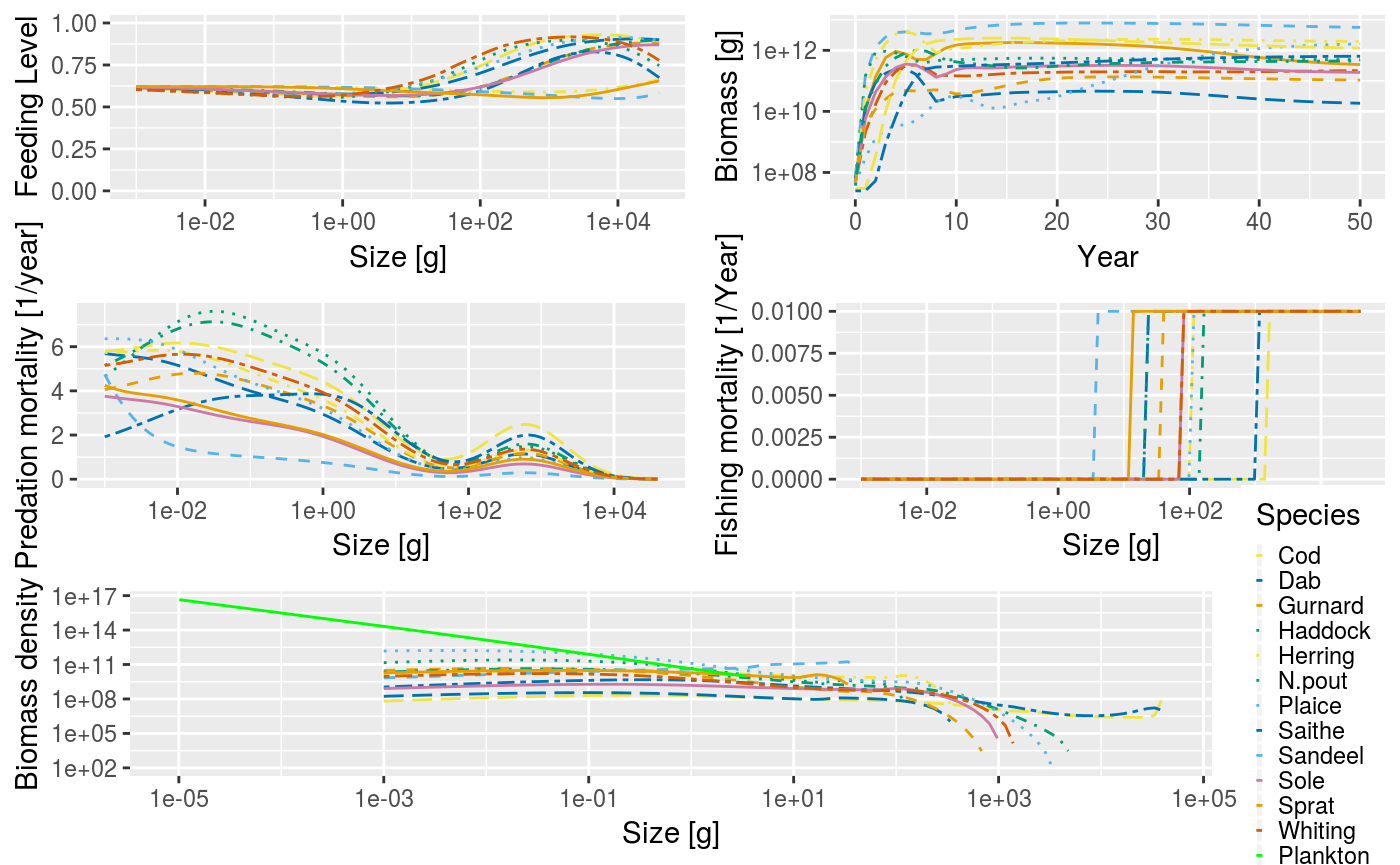
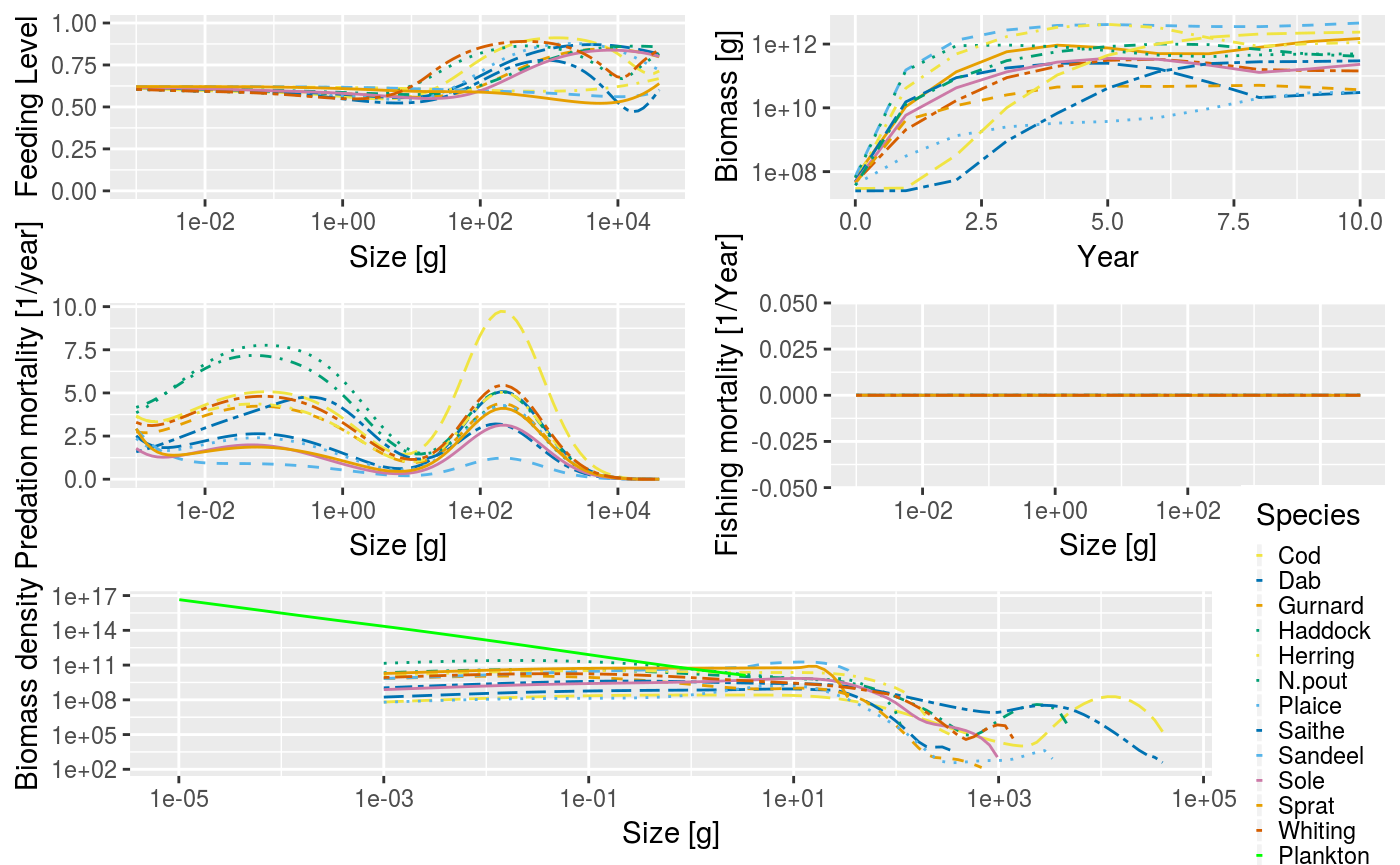
Some tweaking of docs

diff --git a/docs/articles/mizer.html b/docs/articles/mizer.html
@@ -98,7 +98,7 @@
 <div id="overview" class="section level2">
 <h2 class="hasAnchor">
 <a href="#overview" class="anchor"></a>Overview</h2>
-<p>The mizer package implements multi-species size-based modelling in R. It has been designed for modelling marine ecosystems. The general model is described in the section <a href="#model-description">Model Description</a>.</p>
+<p>The mizer package implements multi-species size-spectrum models in R. It has been designed for modelling marine ecosystems. The general model is described in the section [Size spectrum models].</p>
 <p>Using mizer is relatively simple. There are four main stages, each described in more detail in sections below.</p>
 <ol style="list-style-type: decimal">
 <li><p><a href="#installing-mizer">Installing mizer</a>.</p></li>
@@ -107,11 +107,6 @@
 <li><p><a href="#exploring-the-results">Exploring the results</a>.</p></li>
 </ol>
 <p>There is a <a href="https://www.youtube.com/watch?v=zh0PDyTUssw&amp;list=PLCTMeyjMKRkqR7uohI3p-61P7ZJj8sd5B">series of YouTube videos</a> explaining how to use and install mizer.</p>
-</div>
-<div id="model-description" class="section level2">
-<h2 class="hasAnchor">
-<a href="#model-description" class="anchor"></a>Model Description</h2>
-<p>To be written.</p>
 </div>
 <div id="installing-mizer" class="section level2">
 <h2 class="hasAnchor">
@@ -138,14 +133,14 @@
 <pre><code>## Note: No gamma provided for some species, so using f0, h, beta, sigma, lambda and kappa to calculate it.</code></pre>
 <pre><code>## Note: Using z0 = z0pre * w_inf ^ z0exp for missing z0 values.</code></pre>
 <pre><code>## Note: No ks column in species data frame so using ks = h * 0.2.</code></pre>
-<p>The notes printed out by the function show us that mizer calculated sensible default values for parameters that were not provided.</p>
+<p>The notes printed out by the function show us that mizer calculated default values for parameters that were not provided.</p>
 </div>
 <div id="running-a-simulation" class="section level2">
 <h2 class="hasAnchor">
 <a href="#running-a-simulation" class="anchor"></a>Running a simulation</h2>
 <p>This is done by calling the <code><a href="../reference/project.html">project()</a></code> method on the model parameters.</p>
-<div class="sourceCode" id="cb11"><pre class="sourceCode r"><code class="sourceCode r"><a class="sourceLine" id="cb11-1" data-line-number="1">sim &lt;-<span class="st"> </span><span class="kw"><a href="../reference/project.html">project</a></span>(params, <span class="dt">t_max =</span> <span class="dv">50</span>, <span class="dt">effort =</span> <span class="fl">0.01</span>)</a></code></pre></div>
-<p>This produces an object of MizerSim} which contains the results of the simulation. In this example we chose to set some parameters of the <code><a href="../reference/project.html">project()</a></code> function to specify that we want to project 50 years into the future, under the assumption of zero fishing effort. You can see the help page for <code><a href="../reference/project.html">project()</a></code> for more details and it is described fully in <a href="running_a_simulation.html">the section on running a simulation.</a></p>
+<div class="sourceCode" id="cb11"><pre class="sourceCode r"><code class="sourceCode r"><a class="sourceLine" id="cb11-1" data-line-number="1">sim &lt;-<span class="st"> </span><span class="kw"><a href="../reference/project.html">project</a></span>(params, <span class="dt">t_max =</span> <span class="dv">10</span>, <span class="dt">effort =</span> <span class="dv">0</span>)</a></code></pre></div>
+<p>This produces an object of MizerSim} which contains the results of the simulation. In this example we chose to set some parameters of the <code><a href="../reference/project.html">project()</a></code> function to specify that we want to project 10 years into the future, under the assumption of zero fishing effort. You can see the help page for <code><a href="../reference/project.html">project()</a></code> for more details and it is described fully in <a href="running_a_simulation.html">the section on running a simulation.</a></p>
 </div>
 <div id="exploring-the-results" class="section level2">
 <h2 class="hasAnchor">
@@ -155,34 +150,32 @@
 <p><img src="mizer_files/figure-html/unnamed-chunk-6-1.png" width="700"> We might be interested in how the proportion of large fish varies over time. For example we can get the proportion of Herrings in terms of biomass that have a weight above 50g in each of the 50 years:</p>
 <div class="sourceCode" id="cb13"><pre class="sourceCode r"><code class="sourceCode r"><a class="sourceLine" id="cb13-1" data-line-number="1"><span class="kw"><a href="../reference/getProportionOfLargeFish.html">getProportionOfLargeFish</a></span>(sim, <span class="dt">species =</span> <span class="st">"Herring"</span>, <span class="dt">threshold_w =</span> <span class="dv">50</span>, <span class="dt">biomass_proportion =</span> <span class="ot">TRUE</span>)</a></code></pre></div>
 <pre><code>##          0          1          2          3          4          5 
-## 0.82418075 0.04391915 0.29376989 0.51267928 0.73386660 0.88609714 
-##          6          7          8          9         10         11 
-## 0.90022861 0.73370620 0.19006780 0.08756500 0.15857723 0.20033607 
-##         12         13         14         15         16         17 
-## 0.22911606 0.26890047 0.30463756 0.33878410 0.37311180 0.40450866 
-##         18         19         20         21         22         23 
-## 0.43233455 0.45756007 0.48064353 0.50197636 0.52199858 0.54066431 
-##         24         25         26         27         28         29 
-## 0.55764218 0.57286968 0.58661980 0.59926175 0.61109511 0.62225349 
-##         30         31         32         33         34         35 
-## 0.63268264 0.64227323 0.65103049 0.65909192 0.66659961 0.67357684 
-##         36         37         38         39         40         41 
-## 0.67994548 0.68567458 0.69085830 0.69560423 0.69991118 0.70370492 
-##         42         43         44         45         46         47 
-## 0.70696797 0.70981939 0.71243102 0.71484989 0.71695998 0.71862496 
-##         48         49         50 
-## 0.71982509 0.72066421 0.72127138</code></pre>
+## 0.82418075 0.04388892 0.29419134 0.51446384 0.73563622 0.88702688 
+##          6          7          8          9         10 
+## 0.90102213 0.73335861 0.18177264 0.08275899 0.15035014</code></pre>
 <p>We can then use the full power of R to work with these results.</p>
 <p>The functionality provided by mizer to explore the simulation results is more fully described in <a href="exploring_the_simulation_results.html">the section on exploring the simulation results.</a></p>
 </div>
-<div id="examples" class="section level2">
+<div id="size-spectrum-models" class="section level2">
 <h2 class="hasAnchor">
-<a href="#examples" class="anchor"></a>Examples</h2>
-<p>It is easiest to learn the basics of mizer through examples. We do this by looking at four set-ups of the framework, of increasing complexity. For each one there is a vignette that describes how to set up the model, run it in different scenarios, and explore the results. We recommend that you explore these in the following order:</p>
+<a href="#size-spectrum-models" class="anchor"></a>Size-spectrum models</h2>
+<p>Size spectrum models have emerged as a conceptually simple way to model a large community of individuals which grow and change trophic level during life. There is now a growing literature describing different types of size spectrum models <span class="citation">(e.g. Benoît and Rochet <a href="#ref-benoit_continuous_2004">2004</a>; Andersen and Beyer <a href="#ref-andersen_asymptotic_2006">2006</a>; Andersen et al. <a href="#ref-andersen_life-history_2008">2008</a>; Law et al. <a href="#ref-law_size-spectra_2009">2009</a>; Hartvig <a href="#ref-hartvig_food_2011">2011</a>; Hartvig, Andersen, and Beyer <a href="#ref-hartvig_food_2011-1">2011</a>)</span>. The models can be used to understand how marine communities are organised <span class="citation">(Andersen and Beyer <a href="#ref-andersen_asymptotic_2006">2006</a>; Andersen, Beyer, and Lundberg <a href="#ref-andersen_trophic_2009">2009</a>; Blanchard et al. <a href="#ref-blanchard_how_2009">2009</a>)</span> and how they respond to fishing <span class="citation">(K. H. Andersen and Rice <a href="#ref-andersen_direct_2010">2010</a>; K. H. Andersen and Pedersen <a href="#ref-andersen_damped_2010">2010</a>)</span>. This section introduces the central assumptions, concepts, processes, equations and parameters of size spectrum models.</p>
+<p>Roughly speaking there are three versions of the size spectrum modelling framework of increasing complexity: The <a href="#community-model">community model</a> <span class="citation">(Benoît and Rochet <a href="#ref-benoit_continuous_2004">2004</a>; Maury et al. <a href="#ref-maury_modeling_2007">2007</a>; Blanchard et al. <a href="#ref-blanchard_how_2009">2009</a>; Law et al. <a href="#ref-law_size-spectra_2009">2009</a>)</span>, the <a href="#trait-based-model">trait-based model</a> <span class="citation">(Andersen and Beyer <a href="#ref-andersen_asymptotic_2006">2006</a>; K. H. Andersen and Pedersen <a href="#ref-andersen_damped_2010">2010</a>)</span>, and the <a href="#multispecies-model">multispecies model</a> <span class="citation">(Hartvig, Andersen, and Beyer <a href="#ref-hartvig_food_2011-1">2011</a>)</span>. The community and trait-based models can be considered as simplifications of the multispecies model. This section focuses on the multispecies model but is also applicable to the community and trait-based models. Mizer is able to implement all three types of model using similar commands.</p>
+<p>Size spectrum models are a subset of physiologically structured models <span class="citation">(Metz and Diekmann <a href="#ref-metz_dynamics_1986">1986</a>; De Roos and Persson <a href="#ref-de_roos_physiologically_2001">2001</a>)</span> as growth (and thus maturation) is food dependent, and processes are formulated in terms of individual level processes. All parameters in the size spectrum models are related to individual weight which makes it possible to formulate the model with a small set of general parameters, which has prompted the label ``charmingly simple’’ to the model framework [<span class="citation">Pope et al. (<a href="#ref-pope_modelling_2006">2006</a>)</span>}.</p>
+<p>The model framework builds on two central assumption and a number of lesser standard assumption.</p>
+<p>The first central assumption is that an individual can be characterized by its weight <span class="math inline">\(w\)</span> and its species number <span class="math inline">\(i\)</span> only. The aim of the model is to calculate the size- and trait-spectrum <span class="math inline">\({\cal N}_i(w)\)</span> which is the density of individuals such that <span class="math inline">\({\cal N}_i(w)dw\)</span> is the number of individuals in the interval <span class="math inline">\([w:w+dw]\)</span>. Scaling from individual-level processes of growth and mortality to the size spectrum of each trait group is achieved by means of the McKendrik-von Foerster equation, which is simply a continuity equation that describes the flow of biomass up the size spectrum, <span class="math display">\[\begin{equation}
+  \frac{\partial N_i(w)}{\partial t} + \frac{\partial g_i(w) N_i(w)}{\partial w} = -\mu_i(w) N_i(w)
+\end{equation}\]</span> where individual growth <span class="math inline">\(g_i(w)\)</span> and mortality <span class="math inline">\(\mu_i(w)\)</span> are coupled, because growth of one individual is due to predation on another, who consequenty dies.</p>
+<p>The continuity equation is supplemented by a boundary condition at the egg weight <span class="math inline">\(w_0\)</span> where the flux of individuals (numbers per time) <span class="math inline">\(g_i(w_0) N_i(w_0)\)</span> is determined by the reproduction of offspring by mature individuals in the population <span class="math inline">\(R_i\)</span>: <span class="math display">\[\begin{equation}
+  g_i(w_0)N_i(w_0) = R_i.
+\end{equation}\]</span></p>
+<p>The second central assumption is that the rate at which a predator feeds on a prey is determined by the sizes and abundances</p>
+<p>The rest of the formulation of the model rests on a number of ``standard’’ assumptions from ecology and fisheries science about how encounters between predators and prey leads to growth <span class="math inline">\(g_i(w)\)</span> and recruitment <span class="math inline">\(R_i\)</span> of the predators, and mortality of the prey <span class="math inline">\(\mu_i(w)\)</span>.</p>
+<p>It is easiest to learn the basics of mizer through examples. We do this by looking at three set-ups of the framework, of increasing complexity. For each one there is a vignette that describes how to set up the model, run it in different scenarios, and explore the results. We recommend that you explore these in the following order:</p>
 <div id="community-model" class="section level3">
 <h3 class="hasAnchor">
 <a href="#community-model" class="anchor"></a>Community model</h3>
-<p>In the <a href="community_model.html">community model</a>, individuals are only characterized by their size and are represented by a single group representing an across species average. Community size spectrum models have been used to investigate how abundance size spectra emerge solely from individual-level process of size-based predation and how fishing impacts metrics of community-level size spectra. Since few parameters are required it has been used for investigating large-scale community-level questions where detailed trait- and species-level parameterisations are not tractable.</p>
+<p>In the <a href="community_model.html">community model</a>, individuals are only characterized by their size and are represented by a single group representing an across species average. Community size spectrum models have been used to investigate how abundance size spectra emerge solely from the individual-level process of size-based predation and how fishing impacts metrics of community-level size spectra. Since few parameters are required it has been used for investigating large-scale community-level questions where detailed trait- and species-level parameterisations are not tractable.</p>
 </div>
 <div id="trait-based-model" class="section level3">
 <h3 class="hasAnchor">
@@ -206,7 +199,7 @@ stock-recruitment relationship.
 <div id="which-model-to-use" class="section level3">
 <h3 class="hasAnchor">
 <a href="#which-model-to-use" class="anchor"></a>Which model to use</h3>
-<p>All four models predict abundance, biomass and yield as well as predation and mortality rates at size. They are useful for establishing baselines of abundance of unexploited communities, for understanding how fishing impacts aquatic communities and for testing indicators that are being developed to support an ecosystem approach to fisheries management.</p>
+<p>All three models predict abundance, biomass and yield as well as predation and mortality rates at size. They are useful for establishing baselines of abundance of unexploited communities, for understanding how fishing impacts aquatic communities and for testing indicators that are being developed to support an ecosystem approach to fisheries management.</p>
 <p>Which model to use in a specific case depends on needs and on the amount of information available to calibrate the model. The multi-species model could be set up for most systems where calibration parameters can be estimated. This requires a lot of insight and data. If the parameters are just guesstimates the results of the multi-species model will be no more accurate than the results from the trait-based model. In such situations we therefore recommend the use of the trait-based model, even though it only provides general information about the asymptotic size distribution and not about specific species.</p>
 <p>The community model is useful for large-scale community-level questions where only the average spectrum is needed. Care should be taken when the community model is used to infer the dynamical properties of marine ecosystems, since it is prone to unrealistically strong oscillations due to the lack of dampening effects provided by the life-history diversity in the trait-based and multi-species models.</p>
 </div>
@@ -216,6 +209,54 @@ stock-recruitment relationship.
 <a href="#online-apps" class="anchor"></a>Online apps</h2>
 <p>Perhaps the easiest way for newcomers to get into using mizer is via online apps. We are in the process to develop a variety of apps for setting up and exploring models. Here is an example of an online app to <a href="https://mizer.shinyapps.io/selectivity/">explore the effect of increased gear selectivity</a>.</p>
 </div>
+<div id="references" class="section level2 unnumbered">
+<h2 class="hasAnchor">
+<a href="#references" class="anchor"></a>References</h2>
+<div id="refs" class="references">
+<div id="ref-andersen_asymptotic_2006">
+<p>Andersen, K. H., and J. E. Beyer. 2006. “Asymptotic Size Determines Species Abundance in the Marine Size Spectrum.” <em>The American Naturalist</em> 168 (1): 54–61. <a href="https://doi.org/10.1086/504849">https://doi.org/10.1086/504849</a>.</p>
+</div>
+<div id="ref-andersen_trophic_2009">
+<p>Andersen, K. H., J. E. Beyer, and P. Lundberg. 2009. “Trophic and Individual Efficiencies of Size-Structured Communities.” <em>Proceedings of the Royal Society B: Biological Sciences</em> 276 (1654): 109–14. <a href="https://doi.org/10.1098/rspb.2008.0951">https://doi.org/10.1098/rspb.2008.0951</a>.</p>
+</div>
+<div id="ref-andersen_life-history_2008">
+<p>Andersen, K.H., J.E. Beyer, M. Pedersen, N.G. Andersen, and H. Gislason. 2008. “Life-History Constraints on the Success of the Many Small Eggs Reproductive Strategy.” <em>Theoretical Population Biology</em> 73 (4): 490–97. <a href="https://doi.org/10.1016/j.tpb.2008.02.001">https://doi.org/10.1016/j.tpb.2008.02.001</a>.</p>
+</div>
+<div id="ref-andersen_damped_2010">
+<p>Andersen, K. H., and M. Pedersen. 2010. “Damped Trophic Cascades Driven by Fishing in Model Marine Ecosystems.” <em>Proceedings of the Royal Society B-Biological Sciences</em> 277 (1682): 795–802. <a href="https://doi.org/10.1098/rspb.2009.1512">https://doi.org/10.1098/rspb.2009.1512</a>.</p>
+</div>
+<div id="ref-andersen_direct_2010">
+<p>Andersen, K. H., and Jake C. Rice. 2010. “Direct and Indirect Community Effects of Rebuilding Plans.” <em>ICES Journal of Marine Science: Journal Du Conseil</em> 67 (9): 1980–8. <a href="https://doi.org/10.1093/icesjms/fsq035">https://doi.org/10.1093/icesjms/fsq035</a>.</p>
+</div>
+<div id="ref-benoit_continuous_2004">
+<p>Benoît, Eric, and Marie-Joëlle Rochet. 2004. “A Continuous Model of Biomass Size Spectra Governed by Predation and the Effects of Fishing on Them.” <em>Journal of Theoretical Biology</em> 226 (1): 9–21. <a href="https://doi.org/10.1016/S0022-5193(03)00290-X">https://doi.org/10.1016/S0022-5193(03)00290-X</a>.</p>
+</div>
+<div id="ref-blanchard_how_2009">
+<p>Blanchard, Julia L., Simon Jennings, Richard Law, Matthew D. Castle, Paul McCloghrie, Marie-Joëlle Rochet, and Eric Benoît. 2009. “How Does Abundance Scale with Body Size in Coupled Size-Structured Food Webs?” <em>Journal of Animal Ecology</em> 78 (1): 270–80. <a href="https://doi.org/10.1111/j.1365-2656.2008.01466.x">https://doi.org/10.1111/j.1365-2656.2008.01466.x</a>.</p>
+</div>
+<div id="ref-de_roos_physiologically_2001">
+<p>De Roos, André M., and Lennart Persson. 2001. “Physiologically Structured Models – from Versatile Technique to Ecological Theory.” <em>Oikos</em> 94 (1): 51–71. <a href="https://doi.org/10.1034/j.1600-0706.2001.11313.x">https://doi.org/10.1034/j.1600-0706.2001.11313.x</a>.</p>
+</div>
+<div id="ref-hartvig_food_2011">
+<p>Hartvig, Martin. 2011. “Food Web Ecology.” Ph.D., Lund University.</p>
+</div>
+<div id="ref-hartvig_food_2011-1">
+<p>Hartvig, Martin, K. H. Andersen, and Jan E. Beyer. 2011. “Food Web Framework for Size-Structured Populations RID c-4303-2011.” <em>Journal of Theoretical Biology</em> 272 (1): 113–22. <a href="https://doi.org/10.1016/j.jtbi.2010.12.006">https://doi.org/10.1016/j.jtbi.2010.12.006</a>.</p>
+</div>
+<div id="ref-law_size-spectra_2009">
+<p>Law, Richard, Michael J. Plank, Alex James, and Julia L. Blanchard. 2009. “Size-Spectra Dynamics from Stochastic Predation and Growth of Individuals.” <em>Ecology</em> 90 (3): 802–11. <a href="https://doi.org/10.1890/07-1900.1">https://doi.org/10.1890/07-1900.1</a>.</p>
+</div>
+<div id="ref-maury_modeling_2007">
+<p>Maury, Olivier, Blaise Faugeras, Yunne-Jai Shin, Jean-Christophe Poggiale, Tamara Ben Ari, and Francis Marsac. 2007. “Modeling Environmental Effects on the Size-Structured Energy Flow Through Marine Ecosystems. Part 1: The Model.” <em>Progress in Oceanography</em> 74 (4): 479–99. <a href="https://doi.org/10.1016/j.pocean.2007.05.002">https://doi.org/10.1016/j.pocean.2007.05.002</a>.</p>
+</div>
+<div id="ref-metz_dynamics_1986">
+<p>Metz, Johan A. J., and O. Diekmann. 1986. <em>The Dynamics of Physiologically Structured Populations</em>. Springer-Verlag.</p>
+</div>
+<div id="ref-pope_modelling_2006">
+<p>Pope, John G., Jake C. Rice, Niels Daan, Simon Jennings, and Henrik Gislason. 2006. “Modelling an Exploited Marine Fish Community with 15 Parameters - Results from a Simple Size-Based Model.” <em>Ices Journal of Marine Science</em> 63 (6): 1029–44. <a href="https://doi.org/10.1016/j.icesjms.2006.04.015">https://doi.org/10.1016/j.icesjms.2006.04.015</a>.</p>
+</div>
+</div>
+</div>
   </div>
 
   <div class="col-md-3 hidden-xs hidden-sm" id="sidebar">
@@ -224,13 +265,12 @@ stock-recruitment relationship.
 <a href="#tocnav" class="anchor"></a>Contents</h2>
       <ul class="nav nav-pills nav-stacked">
 <li><a href="#overview">Overview</a></li>
-      <li><a href="#model-description">Model Description</a></li>
       <li><a href="#installing-mizer">Installing mizer</a></li>
       <li><a href="#setting-the-model-parameters">Setting the model parameters</a></li>
       <li><a href="#running-a-simulation">Running a simulation</a></li>
       <li><a href="#exploring-the-results">Exploring the results</a></li>
       <li>
-<a href="#examples">Examples</a><ul class="nav nav-pills nav-stacked">
+<a href="#size-spectrum-models">Size-spectrum models</a><ul class="nav nav-pills nav-stacked">
 <li><a href="#community-model">Community model</a></li>
       <li><a href="#trait-based-model">Trait-based model</a></li>
       <li><a href="#multispecies-model">Multispecies model</a></li>
@@ -238,6 +278,7 @@ stock-recruitment relationship.
       </ul>
 </li>
       <li><a href="#online-apps">Online apps</a></li>
+      <li><a href="#references">References</a></li>
       </ul>
 </div>
       </div>

diff --git a/docs/articles/trait_model.html b/docs/articles/trait_model.html
@@ -98,15 +98,15 @@
 <div id="introduction" class="section level2">
 <h2 class="hasAnchor">
 <a href="#introduction" class="anchor"></a>Introduction</h2>
-<p>The trait-based size spectrum model can be derived as a simplification of the general model outline in <a href="model_description.html">the model description section.</a> It is more complicated than a community model and the most significant difference between the two is that while the community model only resolves a single <em>species</em>, the trait-based model resolves many species. In a trait-based model the asymptotic size is considered to be the most important <em>trait</em> characterizing a species. All of the species-specific parameters, such as <span class="math inline">\(\beta\)</span> and <span class="math inline">\(\sigma\)</span>, are the same for all species. Other model parameters are determined by the asymptotic size. For example, the weight at maturation, <span class="math inline">\(w_{m.i} = \eta w_{\infty.i}\)</span>, where <span class="math inline">\(\eta = 0.25\)</span>. The number of species is not important and does not affect the general dynamics of the model. The asymptotic sizes of the species are spread evenly over the size range of the community.</p>
+<p>The trait-based size spectrum model can be derived as a simplification of the general model outline in the <a href="model_description.html">model description</a> section. It is more complicated than a <a href="community_model.html">community model</a> and the most significant difference between the two is that while the community model only resolves a single <em>species</em>, the trait-based model resolves many species. In a trait-based model the asymptotic size is considered to be the most important <em>trait</em> characterizing a species. All of the species-specific parameters, such as <span class="math inline">\(\beta\)</span> and <span class="math inline">\(\sigma\)</span>, are the same for all species. Other model parameters are determined by the asymptotic size. For example, the weight at maturation, <span class="math inline">\(w_{m.i} = \eta w_{\infty.i}\)</span>, where <span class="math inline">\(\eta = 0.25\)</span>. The number of species is not important and does not affect the general dynamics of the model. The asymptotic sizes of the species are spread evenly over the size range of the community.</p>
 </div>
 <div id="sec:set_up_trait_model" class="section level2">
 <h2 class="hasAnchor">
 <a href="#sec:set_up_trait_model" class="anchor"></a>Setting up a trait-based model</h2>
-<p>To help set up a trait-based model, there is a wrapper function, <code><a href="../reference/set_trait_model.html">set_trait_model()</a></code>. Like the <code><a href="../reference/set_community_model.html">set_community_model()</a></code> function described above, this function can take many arguments. Most of them have default values so you don’t need to worry about them for the moment. See the help page for more details.</p>
+<p>To help set up a trait-based model, there is a wrapper function, <code><a href="../reference/set_trait_model.html">set_trait_model()</a></code>. Like the <code><a href="../reference/set_community_model.html">set_community_model()</a></code> function described in the section on the <a href="community_model.html">community model</a>, this function can take many arguments. Most of them have default values so you don’t need to worry about them for the moment. See the help page for more details.</p>
 <div class="sourceCode" id="cb1"><pre class="sourceCode r"><code class="sourceCode r"><a class="sourceLine" id="cb1-1" data-line-number="1">?set_trait_model</a></code></pre></div>
-<p>The main parameters of interest are the number of the species in the model (<code>no_sp</code>) and the minimum and maximum asymptotic sizes (<code>min_w_inf</code> and <code>max_w_inf</code> respectively), the asymptotic sizes are spread evenly on a logarithmic scale.</p>
-<p>One of the key differences between the community type model described above and the trait-based model is that reproduction and egg production are considered. In the community model, recruitment is constant and there is no relationship between the abundance in the community and egg production. In the trait-based model, the egg production is modeled using a <em>Beverton-Holt</em> type function (the default in <code>mizer</code>, see <a href="model_description.html#sec:recruitment">the section on stock-recruitment relationships</a>) where the recruitment flux <span class="math inline">\(R_i\)</span> (numbers per time) approaches a maximum recruitment as the egg production increases. The maximum recruitment flux is calculated using equilibrium theory and a recruitment multiplier <span class="math inline">\(k_0\)</span>, which can be passed in as an argument (<code>k0</code>) to the <code><a href="../reference/set_trait_model.html">set_trait_model()</a></code> function. <code>k0</code> has a default value of 50.</p>
+<p>The main parameters of interest are the number of the species in the model (<code>no_sp</code>) and the minimum and maximum asymptotic sizes (<code>min_w_inf</code> and <code>max_w_inf</code> respectively); the asymptotic sizes are spread evenly on a logarithmic scale between these values.</p>
+<p>One of the key differences between the community type model and the trait-based model is that reproduction and egg production are considered. In the community model, recruitment is constant and there is no relationship between the abundance in the community and egg production. In the trait-based model, the egg production is modeled using a <em>Beverton-Holt</em> type function (the default in <code>mizer</code>, see <a href="model_description.html#sec:recruitment">the section on stock-recruitment relationships</a>) where the recruitment flux <span class="math inline">\(R_i\)</span> (numbers per time) approaches a maximum recruitment as the egg production increases. The maximum recruitment flux is calculated using equilibrium theory and a recruitment multiplier <span class="math inline">\(k_0\)</span>, which can be passed in as an argument (<code>k0</code>) to the <code><a href="../reference/set_trait_model.html">set_trait_model()</a></code> function. <code>k0</code> has a default value of 50.</p>
 <p>Here we set up the model to have 10 species, with asymptotic sizes ranging from 10 g to 100 kg. All the other parameters have default values.</p>
 <div class="sourceCode" id="cb2"><pre class="sourceCode r"><code class="sourceCode r"><a class="sourceLine" id="cb2-1" data-line-number="1">params &lt;-<span class="st"> </span><span class="kw"><a href="../reference/set_trait_model.html">set_trait_model</a></span>(<span class="dt">no_sp =</span> <span class="dv">10</span>, <span class="dt">min_w_inf =</span> <span class="dv">10</span>, <span class="dt">max_w_inf =</span> <span class="fl">1e5</span>)</a></code></pre></div>
 <pre><code>## Note: No gamma provided for some species, so using f0, h, beta, sigma, lambda and kappa to calculate it.</code></pre>

diff --git a/docs/reference/index.html b/docs/reference/index.html
@@ -293,6 +293,12 @@ step.</p></td>
           <p><code><a href="getYieldGear.html">getYieldGear()</a></code> </p>
         </td>
         <td><p>Calculate the total yield per gear and species</p></td>
+      </tr><tr>
+        
+        <td>
+          <p><code><a href="getGrowthCurves.html">getGrowthCurves()</a></code> </p>
+        </td>
+        <td><p>Get growth curves giving weight as a function of age</p></td>
       </tr>
     </tbody><tbody>
       <tr>
